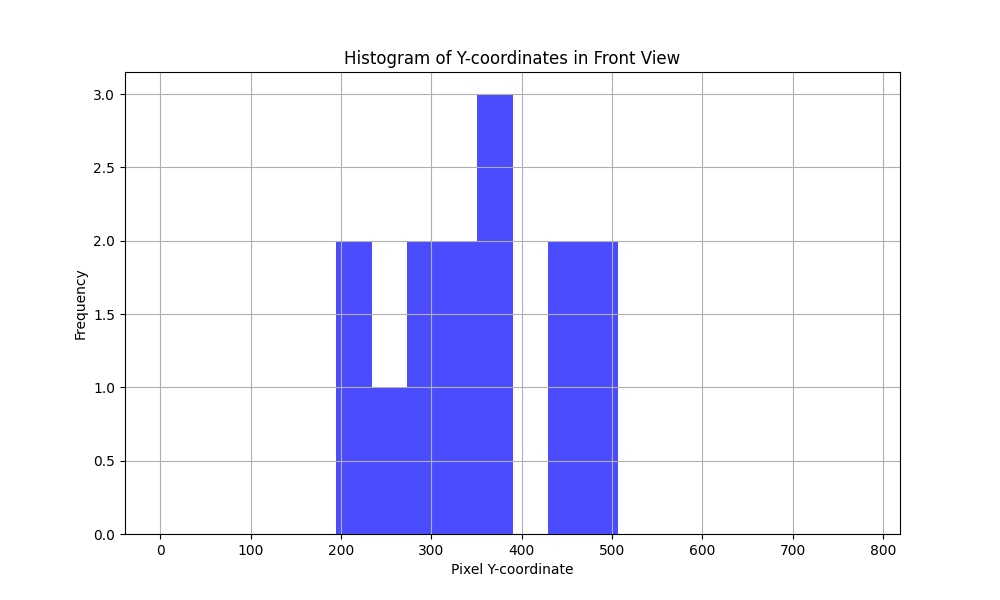
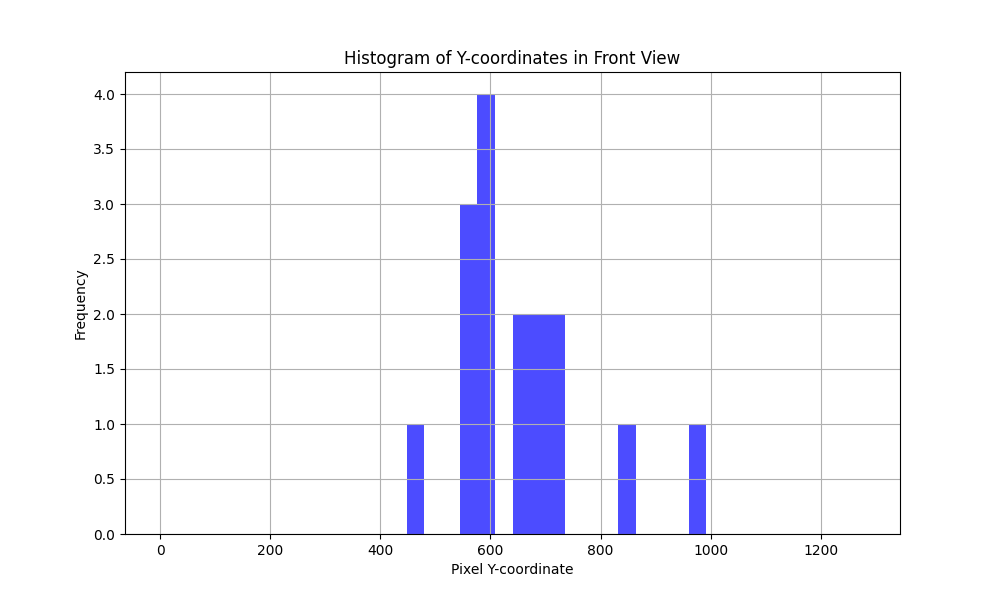
added histograms to storing groceries

diff --git a/src/charmie_storing_groceries/charmie_storing_groceries/storing_groceries_v0.py b/src/charmie_storing_groceries/charmie_storing_groceries/storing_groceries_v0.py
@@ -1677,7 +1677,7 @@ class StoringGroceriesMain():
 
         # print(f"Saved image with rectangle for object {detected_object.object_name} as {image_name}")
         
-    def plot_histograms(self):
+    def plot_histograms(self, data):
         height, width = 780, 1280
         image = np.zeros((height, width), dtype=np.uint8)
         image2 = np.zeros((height, width), dtype=np.uint8)
@@ -1694,7 +1694,7 @@ class StoringGroceriesMain():
         max_height_meters_y = 0.0
 
         # Coordinates to plot (x, y, z)
-        coordinates = [
+        """ coordinates = [
             ("Banana", -0.24, 1.95, -0.96),
             ("Cheezit", -0.81, 0.93, -0.66),
             ("Sugar", 0.29, 1.88, -0.53),
@@ -1709,7 +1709,9 @@ class StoringGroceriesMain():
             ("Red Wine", 0.19, 1.81, 0.45),
             ("Tropical Juice", 0.11, 2.02, 0.41),
             ("Spam", -0.41, 1.94, -0.02)
-        ]
+        ] """
+        
+        coordinates = data
 
         # Function to convert real-world coordinates to image coordinates
         
@@ -1731,7 +1733,7 @@ class StoringGroceriesMain():
             img_z = center_y - (img_z - center_y)
             cv2.circle(image, (img_x, img_z), 5, (255, 255, 255), -1)  # Draw white points
             cv2.putText(image, name, (img_x + 5, img_z - 5), cv2.FONT_HERSHEY_SIMPLEX, 0.5, (255, 255, 255), 1)
-            y_coordinates_front_view.append(img_z)
+            y_coordinates_front_view.append(img_x)
             
             cv2.circle(image2, (img_x, img_y), 5, (255, 255, 255), -1)  # Draw white points
             cv2.putText(image2, name, (img_x + 5, img_y - 5), cv2.FONT_HERSHEY_SIMPLEX, 0.5, (255, 255, 255), 1)
@@ -1740,19 +1742,11 @@ class StoringGroceriesMain():
             
 
 
-        # Display the image
-        cv2.imshow("Front view of cabinet", image)
-        cv2.waitKey(100)
-        #cv2.destroyAllWindows()
         
-        # Display the image
-        cv2.imshow("Top view of cabinet", image2)
-        cv2.waitKey(100)
-        #cv2.destroyAllWindows()
         
         # Plot histogram for front view (y-coordinates)
         plt.figure(figsize=(10, 6))
-        plt.hist(y_coordinates_front_view, bins=20, range=(0, height), color='blue', alpha=0.7)
+        plt.hist(y_coordinates_front_view, bins=40, range=(0, width), color='blue', alpha=0.7)
         plt.title("Histogram of Y-coordinates in Front View")
         plt.xlabel("Pixel Y-coordinate")
         plt.ylabel("Frequency")
@@ -1775,9 +1769,21 @@ class StoringGroceriesMain():
         hist_front_view = cv2.imread('histogram_front_view.png')
         hist_top_view = cv2.imread('histogram_top_view.png')
         
+        # Display the image
+        cv2.imshow("Front view of cabinet", image)
+        cv2.waitKey(100)
+        #cv2.destroyAllWindows()
+        
+        
+        
         cv2.imshow("Histogram of Y-coordinates in Front View", hist_front_view)
         cv2.waitKey(0)
         cv2.destroyAllWindows()
+
+        # Display the image
+        cv2.imshow("Top view of cabinet", image2)
+        cv2.waitKey(100)
+        #cv2.destroyAllWindows()        
 
         cv2.imshow("Histogram of Y-coordinates in Top View", hist_top_view)
         cv2.waitKey(0)
@@ -1823,60 +1829,43 @@ class StoringGroceriesMain():
 
                 self.set_neck(position=self.look_forward, wait_for_end_of=False)
 
-
+                data = []
                 # tetas = [[-120, -10], [-60, -10], [0, -10], [60, -10], [120, -10]]
-                # tetas = [[0, -45], [0, -30], [0, -15], [0, 0]]
-                # objects_found = self.search_for_objects(tetas=tetas, delta_t=3.0, use_arm=False, detect_objects=True, detect_shoes=False, detect_doors=False)
+                tetas = [[0, -45], [0, -30], [0, -15], [0, 0]]
+                objects_found = self.search_for_objects(tetas=tetas, delta_t=3.0, use_arm=False, detect_objects=True, detect_shoes=False, detect_doors=False)
                 
-                # print(self.node.filtered_objects_storing_groceries)
-                self.plot_histograms()       
-                while True:
-                    pass
-                
-                
-                
-                
-                
-                
-                
-                
-                
-                
-                
-                
-                
-                
-                
-                
-                
-                
-                
-                
-                
-                
-                height, width = 720, 1280
-                black_image = np.zeros((height, width), dtype=np.uint8)
-
-                print('waiting...')
-                while self.node.flag_storing_groceries_received == False:
-                    pass
-                time.sleep(2)
-                for o in self.node.filtered_objects_storing_groceries:
+                for o in objects_found:
+                    
                     print(o.index, o.object_name, "\t", 
                         round(o.position_absolute.x, 2), round(o.position_absolute.y, 2), 
                         round(o.position_absolute.z, 2)) # round(o.box_center_x), round(o.box_center_y)
-                    black_image[round(o.box_center_y), round(o.box_center_x)] = 255
-
-                self.node.flag_storing_groceries_received = False
-                self.node.filtered_objects_storing_groceries.clear()
+                    name = o.object_name
+                    x = round(o.position_absolute.x, 2)
+                    y = round(o.position_absolute.y, 2)
+                    z = round(o.position_absolute.z, 2)
+                    data.append((name, x, y, z))
                 
-                # Display the image
-                cv2.imshow("Black Image with White Points", black_image)
-                cv2.waitKey(0)
-                cv2.destroyAllWindows()
+                # # print(self.node.filtered_objects_storing_groceries)
+                # print('waiting...')
+                # while self.node.flag_storing_groceries_received == False:
+                #     pass
+                # time.sleep(2)
+                
+                # for o in self.node.filtered_objects_storing_groceries:
+                    
+                #     print(o.index, o.object_name, "\t", 
+                #         round(o.position_absolute.x, 2), round(o.position_absolute.y, 2), 
+                #         round(o.position_absolute.z, 2)) # round(o.box_center_x), round(o.box_center_y)
+                #     name = o.object_name
+                #     x = round(o.position_absolute.x, 2)
+                #     y = round(o.position_absolute.y, 2)
+                #     z = round(o.position_absolute.z, 2)
+                #     data.append((name, x, y, z))
 
-                # Optionally, save the image
-                # cv2.imwrite("black_image_with_white_points.png", black_image)
+                # self.node.flag_storing_groceries_received = False
+                # self.node.filtered_objects_storing_groceries.clear()
+                print(data)
+                self.plot_histograms(data)       
                 while True:
                     pass
                 
